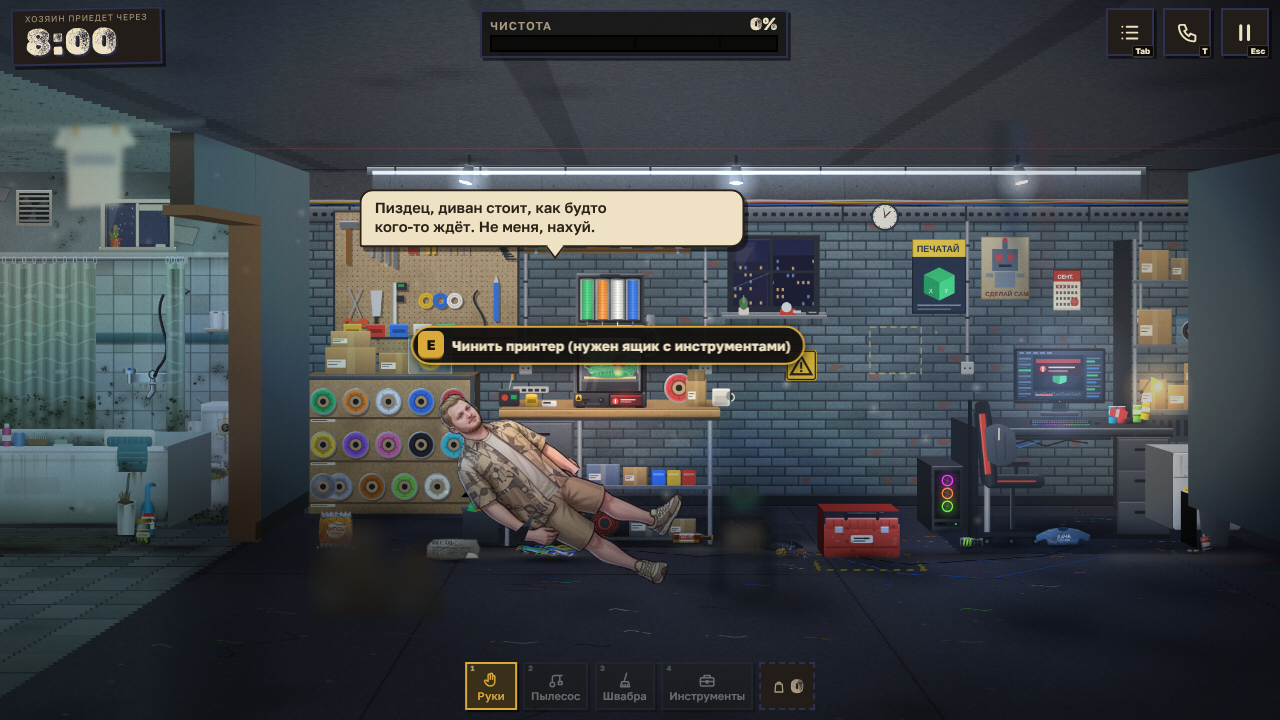
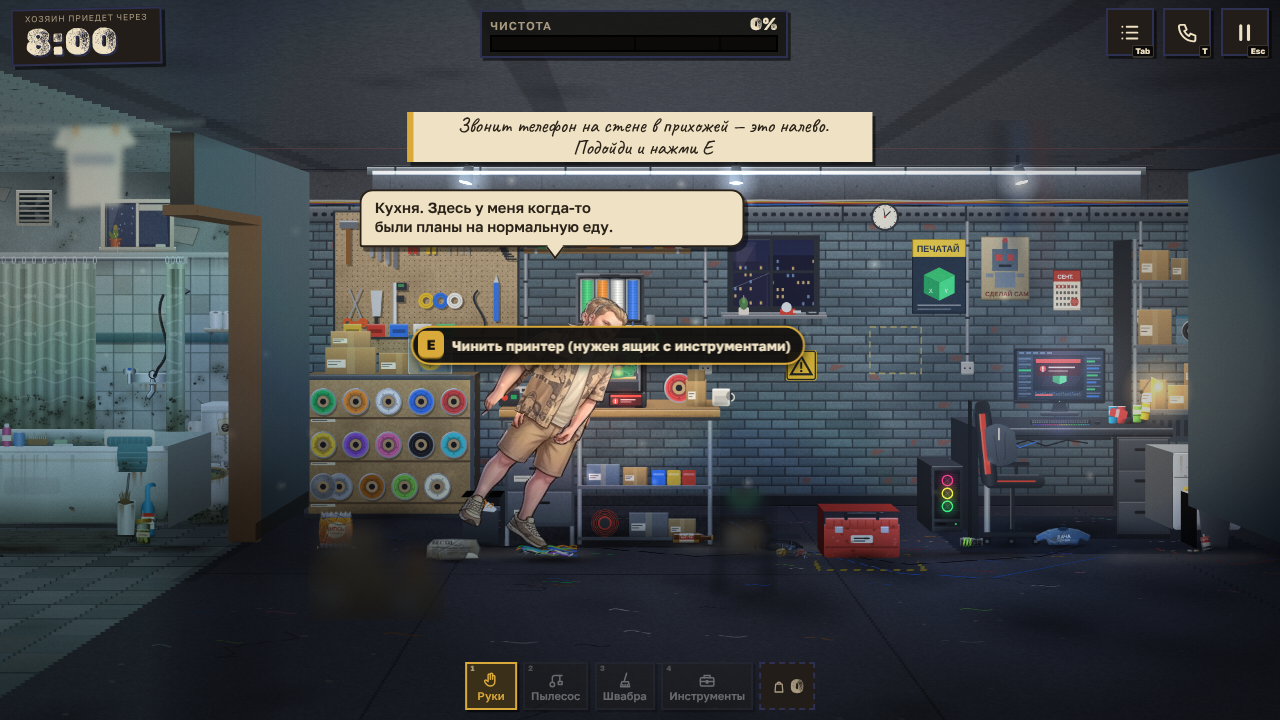
Puppet rig for realistic hero: articulated arms and head for all action states
Claude-Session: https://claude.ai/code/session_01Cr2TWfzsTSuZMJmoki1rcL

diff --git a/js/character.js b/js/character.js
@@ -254,6 +254,75 @@
     else if (held === 'bag' && !hasBag && (st === 'pickup' || st === 'toss' || st === 'putBag')) drawHeld(g, 'bag', 26, -82, p, t);
     g.restore();
   }
+
+  /* ---- cut-out puppet built from the idle sprite: head + torso + two articulated arms (shoulder/elbow) ---- */
+  const PUP = { built: false, part: {}, SH: { A: [24, 74], B: [102, 72] }, EL: { A: [20, 130], B: [112, 130] }, HD: { A: [24, 196], B: [115, 192] }, NECK: [64, 62] };
+  const POLY = {
+    uA: [[0, 64], [30, 56], [38, 70], [38, 100], [34, 132], [6, 138], [0, 100]], fA: [[2, 126], [34, 124], [34, 150], [30, 178], [30, 208], [4, 212], [2, 170]],
+    uB: [[96, 64], [128, 66], [132, 100], [124, 134], [100, 134], [96, 100]], fB: [[104, 124], [132, 126], [132, 208], [109, 204], [109, 150], [104, 140]],
+    head: [[0, 0], [132, 0], [132, 61], [0, 61]]
+  };
+  function clipCopy(im, poly) { const c = BB.mk(im.width, im.height), g = c.getContext('2d'); g.beginPath(); poly.forEach((q, i) => i ? g.lineTo(q[0], q[1]) : g.moveTo(q[0], q[1])); g.closePath(); g.save(); g.clip(); g.drawImage(im, 0, 0); g.restore(); return c; }
+  function buildPuppet(im) {
+    const W = im.width, H = im.height, part = {};
+    for (const k of ['uA', 'fA', 'uB', 'fB']) part[k] = clipCopy(im, POLY[k]);
+    part.head = clipCopy(im, POLY.head);
+    const base = BB.mk(W, H), g = base.getContext('2d'); g.drawImage(im, 0, 0);
+    g.globalCompositeOperation = 'destination-out'; g.fillStyle = '#000';
+    for (const k of ['uA', 'fA', 'uB', 'fB']) { g.beginPath(); POLY[k].forEach((q, i) => i ? g.lineTo(q[0], q[1]) : g.moveTo(q[0], q[1])); g.closePath(); g.fill(); }
+    g.globalCompositeOperation = 'source-over';
+    const patch = (sx, dx, w, y0, y1) => { g.save(); g.beginPath(); g.rect(dx, y0, w, y1 - y0); g.clip(); g.translate(dx + w, 0); g.scale(-1, 1); g.drawImage(im, sx, 0, w, H, 0, 0, w, H); g.restore(); };
+    patch(36, 26, 12, 68, 182); patch(84, 94, 12, 68, 182);
+    part.base = base; PUP.part = part; PUP.built = true;
+  }
+  function rotAround(g, px, py, a) { g.translate(px, py); g.rotate(a); g.translate(-px, -py); }
+  function fk(side, a, e) { const sh = PUP.SH[side], el = PUP.EL[side], hd = PUP.HD[side], c = Math.cos(a), s = Math.sin(a); const ex = sh[0] + (el[0] - sh[0]) * c - (el[1] - sh[1]) * s, ey = sh[1] + (el[0] - sh[0]) * s + (el[1] - sh[1]) * c, t = a + e, ct = Math.cos(t), st = Math.sin(t); return [ex + (hd[0] - el[0]) * ct - (hd[1] - el[1]) * st, ey + (hd[0] - el[0]) * st + (hd[1] - el[1]) * ct]; }
+  function armTargets(st, t, a, held) {
+    const so = Math.sin(t * 1.7) * .03, r = { aA: .05 + so, eA: 0, aB: -.05 - so, eB: 0, head: 0 };
+    const set = (A, B, h) => { if (A) { r.aA = A[0]; r.eA = A[1]; } if (B) { r.aB = B[0]; r.eB = B[1]; } if (h != null) r.head = h; };
+    const u = Math.sin(clamp(a, 0, 1) * Math.PI);
+    switch (st) {
+      case 'idle': case 'idleBored': if (held === 'bag') set(null, [-.3, -.12]); r.head = st === 'idleBored' ? Math.sin(t * 1.3) * .14 : Math.sin(t * .6) * .03; break;
+      case 'pickup': set([-.5 * u - .1, -.3], [-.6 * u - .2, -.3], .1 * u); break;
+      case 'putBag': case 'toss': { const q = clamp(a, 0, 1); set(null, [q < .4 ? .6 : -2.1, q < .4 ? -.2 : -.3], 0); break; }
+      case 'open': case 'openFridge': case 'reach': case 'door': case 'haul': set([.12, 0], [-1.45, -.1], st === 'openFridge' ? -.08 : 0); break;
+      case 'disgust': set([-.6, -2.2], [-.8, -2.5], -.2); break;
+      case 'scrub': case 'scrubFridge': set([-.6, -.8], [-1.25 + Math.sin(t * 11) * .3, -.5], .06); break;
+      case 'scrubToilet': set([-.6, -.8], [-1.1 + Math.sin(t * 10) * .35, -.6], .1); break;
+      case 'mop': set([-.8, -.5], [-.85 + Math.sin(t * 7) * .12, -.5], .05); break;
+      case 'vac': set([-.9, -.4], [-.9 + Math.sin(t * 4) * .1, -.4]); break;
+      case 'phoneUse': set([.12, 0], [-.5 - a * .1, -2.6 * clamp(a * 1.4, 0, 1)], -.05); break;
+      case 'phone': set([.12, 0], [-.5, -2.55], -.08 + Math.sin(t * 3) * .02); break;
+      case 'listen': set([.4, -1.0], [-.5, -2.55], -.14); break;
+      case 'nervous': set([-.3 + Math.sin(t * 9) * .08, -.9], [-.5, -2.55], .05); break;
+      case 'inspect': set([.1, 0], [-.55, -2.0], .12); break;
+      case 'inspectLow': set([-.5, -.5], [-1.0, -.4], -.12); break;
+      case 'repair': case 'tinker': case 'flush': set([-1.0, -.7], [-1.1 + Math.sin(t * 9) * .18, -.7 + Math.cos(t * 9) * .15], -.1); break;
+      case 'cheer': set([-2.7 + Math.sin(t * 16) * .2, -.2], [-2.55 - Math.sin(t * 16) * .2, -.2], Math.sin(t * 8) * .06); break;
+      case 'panic': case 'shock': set([-2.2 + Math.sin(t * 20) * .12, -.8], [-2.3 - Math.sin(t * 20) * .12, -.8], Math.sin(t * 22) * (st === 'panic' ? .1 : .02)); break;
+      case 'angry': set([-.35, -1.5], [-.35, -1.5], .1); break;
+      case 'shrug': set([-.55 * u, -1.3 * u], [-.55 * u, -1.3 * u], .1 * u); break;
+      case 'fail': case 'tired': set([.18, .12], [.18, .12], .28); break;
+      case 'point': set([.1, 0], [-1.5, 0]); break;
+      case 'wave': set(null, [-2.6, Math.sin(t * 8) * .5]); break;
+      case 'stumble': set([-1.4, -.2], [-1.6, -.2]); break;
+      default: break;
+    }
+    return r;
+  }
+  function drawPuppet(inst, g, k, held) {
+    const P_ = PUP.part, im = HS.img.idle, w = im.width, h = im.height, A = inst.arm;
+    g.save(); g.translate(-w * k / 2, -h * k); g.scale(k, k);
+    g.drawImage(P_.base, 0, 0);
+    g.save(); rotAround(g, PUP.NECK[0], PUP.NECK[1], A.head); g.drawImage(P_.head, 0, 0); g.restore();
+    for (const side of ['A', 'B']) {
+      const a = side === 'A' ? A.aA : A.aB, e = side === 'A' ? A.eA : A.eB, sh = PUP.SH[side], el = PUP.EL[side];
+      g.save(); rotAround(g, sh[0], sh[1], a); g.drawImage(P_['u' + side], 0, 0);
+      rotAround(g, el[0], el[1], e); g.drawImage(P_['f' + side], 0, 0); g.restore();
+    }
+    g.restore();
+    const hand = fk('B', A.aB, A.eB); return [(hand[0] - w / 2) * k, (hand[1] - h) * k];
+  }
   function handPos(st, p) {
     if (st === 'phone' || st === 'phoneUse' || st === 'listen' || st === 'nervous') return [13, -150];
     if (st === 'mop' || st === 'vac') return [26, -88 + S_(p.tool * .05) * 2];
@@ -287,8 +356,9 @@
       const breathe = idleish ? S_(t * 2) * .006 : 0, sy = (1 - crouch / 215) * (1 + breathe), sx = 1 + crouch / 520 - breathe * .5;
       const lean = clamp(p.lean, -.5, .75) * .85 + (idleish ? S_(t * .9) * .014 : 0), shake = (st === 'panic' ? S_(t * 40) * 1.2 : 0), hop = p.lift || 0;
       g.translate(shake + (idleish ? S_(t * .9) * .8 : 0), -hop); g.translate(0, hip); g.rotate(lean); g.scale(sx, sy); g.translate(0, -hip);
-      draw(im, 0, 0);
-      const hp = handPos(st, p);
+      if (!PUP.built && im.width) buildPuppet(im);
+      let hp;
+      if (PUP.built && inst.arm) hp = drawPuppet(inst, g, k, held); else { draw(im, 0, 0); hp = handPos(st, p); }
       if (held === 'mop' || held === 'vac') drawTool(g, held, p, hp[0], hp[1]);
       else if (held) drawHeld(g, held, hp[0], hp[1], p, t);
     }
@@ -303,6 +373,7 @@
       ctl = ctl || {}; inst.t = ctl.t != null ? ctl.t : inst.t + dt; inst.state = ctl.state || inst.state; inst.phase = ctl.phase != null ? ctl.phase : inst.phase;
       inst.face = ctl.face != null ? ctl.face : inst.face; inst.held = ctl.held !== undefined ? ctl.held : inst.held; inst.actT = ctl.actT || 0; inst.ctl = ctl;
       const cyc = inst.state === 'walk' || inst.state === 'run' || inst.state === 'carry';
+      { const at = armTargets(inst.state, inst.t, inst.actT, inst.held); inst.arm = inst.arm || Object.assign({}, at); const ka = 1 - Math.exp(-dt * 16); for (const q in at) inst.arm[q] = lerp(inst.arm[q], at[q], ka); }
       const tg = poseFor(inst.state, inst.t, inst.phase, inst.actT, ctl);
       const a = 1 - Math.exp(-dt * (cyc ? 40 : 15)); for (const k in tg) inst.pose[k] = inst.pose[k] === undefined ? tg[k] : lerp(inst.pose[k], tg[k], k === 'eye' ? Math.min(1, a * 3) : a);
     };

diff --git a/docs/QA_REPORT.md b/docs/QA_REPORT.md
@@ -29,3 +29,6 @@ Known issues / next steps: fix the fridge scrub-stage error, story call scheduli
 * Mechanic adapted: stash carried trash in the hall wardrobe (up to 4, 60% credit); the 5th makes it explode (-8 s, trash spills back).
 * Not ported: Three.js 3D renderer, printed flush-button flow (our printer/toilet minigames already cover repair), prototype minigame art.
 * Tests after merge: qa_run PASS (except software-render frame time), test_tasks OK, test_story 41/43 (same 2 scheduling failures as before).
+
+## Update: puppet animation for the realistic hero
+The idle sprite is cut at load time into head / torso base (arms inpainted) / two articulated arms (shoulder+elbow). All action states drive arm and head angles (phone, mop, vac, scrub, repair, reach, cheer, panic, shrug, wave, point, pickup...), held items follow the forward-kinematic hand position. Walk/run/jump use the painted run frames (scaled), sofa pose = torso/legs split. Checked on screenshots: cheer, phone, mop, panic, pickup, openFridge, scrubToilet, point, shock, wave. Not verified: smoothness of transitions in motion, lower-body animation for crouch actions (still a squash of the standing sprite).
